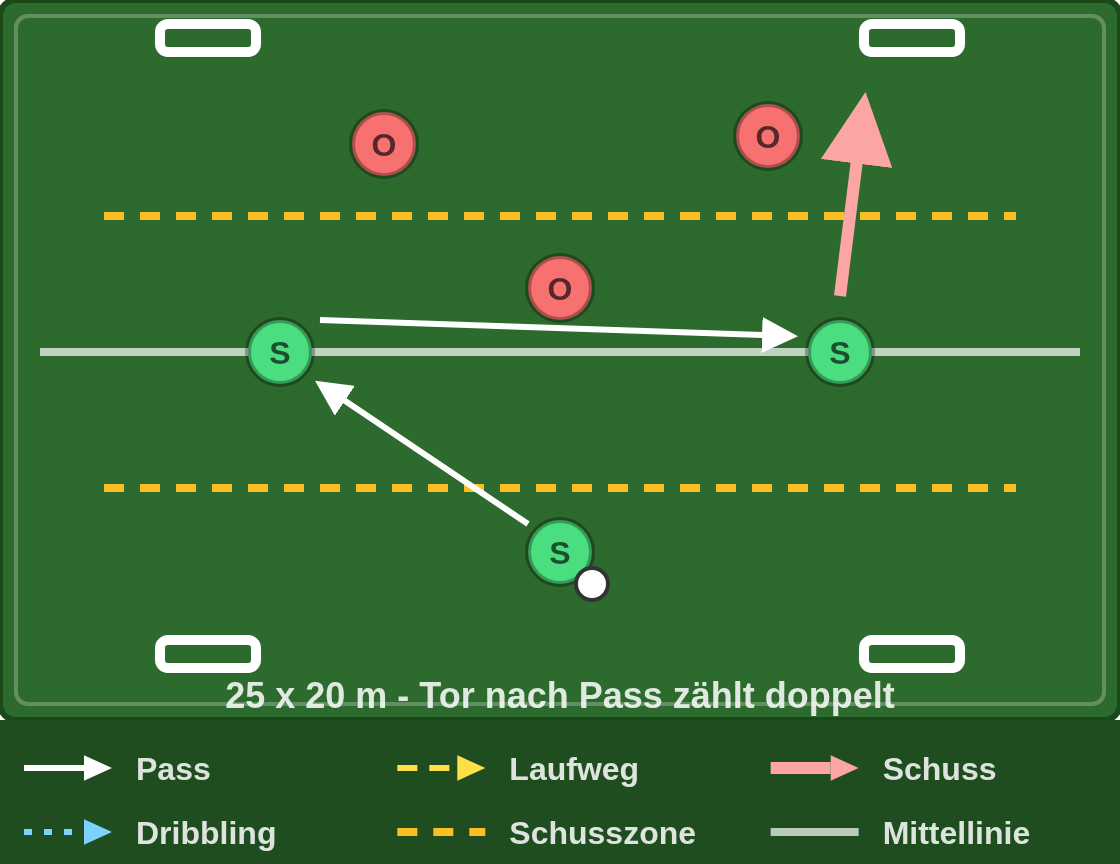
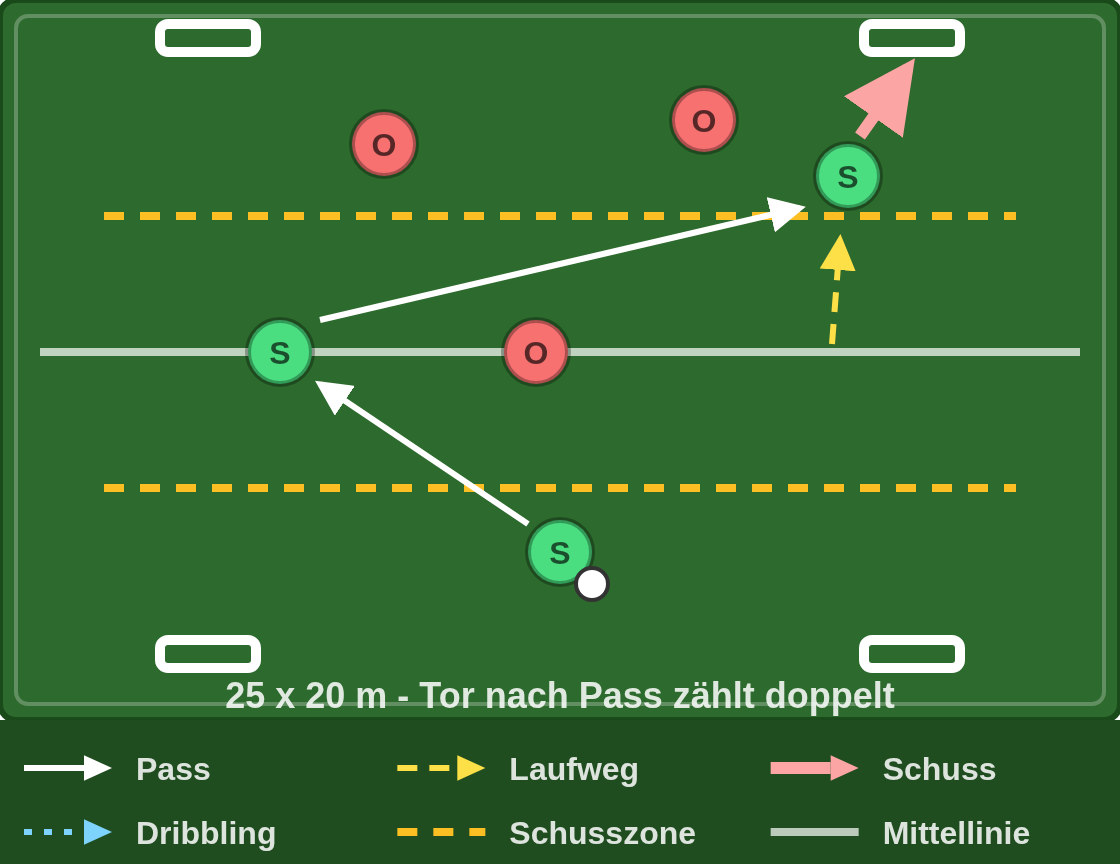
Durchsicht Charles: Abschluss in die Schusszone, Abschluss ab Minute 1
Zwei Befunde aus der Durchsicht der Exportbilder, beide am Inhalt, kein Code:

- Übung 1: der abschließende Spieler stand auf der Mittellinie und schoss von
  dort — die Regel der Einheit lautet „Tore zählen nur aus der Schusszone“, und
  die Bildunterschrift der Abgabe nennt den Abschluss aus der Zone. Der Spieler
  steht jetzt in der Zone, ein Laufweg zeigt, wie er hineingestartet ist, der
  Schuss beginnt dahinter. Der zentrale Verteidiger rückt auf die Mittellinie,
  damit die Verlagerung nicht durch seinen Kreis läuft. Engster Spielerabstand
  39 px, weiter über den geforderten 24.
- Übung 2: neun Minuten nur passen, bevor zum ersten Mal abgeschlossen wird, ist
  für diese Altersklasse zu lang. §10 des Ausbildungskonzepts fragt nach jeder
  Einheit, ob jedes Kind ein Erfolgserlebnis hatte. Abgeschlossen wird jetzt ab
  der ersten Minute; gesteigert wird über das Material (zweiter Ball ab Minute 4)
  und den Wettbewerb (ab Minute 8 gegen das eigene Vorher). Bildunterschrift,
  Kurztext und das Label des Zwischenblocks in der Vorlage ziehen mit.

Beide Skizzen neu exportiert, Abnahmetabelle und „Was offen bleibt“ im Paket
nachgeführt — samt der Punkte, die in Huetten_Aufgabe_2.2.docx von Hand
nachzuziehen sind. Voller Prüflauf grün.

Claude-Session: https://claude.ai/code/session_01MHgn9TPz4fJRqUSv74pZiR

Changed region(s): [[0.2812, 0.0625, 0.8125, 0.4688]]

diff --git a/doku/auftrag-einheit-lf4/Auftragspaket_Einheit_LF4.md b/doku/auftrag-einheit-lf4/Auftragspaket_Einheit_LF4.md
@@ -48,34 +48,133 @@ Paket Lehrgangsskizzen.
   "diff": 2,
   "skizze": {
     "li": [
-      [10, 88, 270, 88],
-      [26, 54, 254, 54, "sz"],
-      [26, 122, 254, 122, "sz"]
+      [
+        10,
+        88,
+        270,
+        88
+      ],
+      [
+        26,
+        54,
+        254,
+        54,
+        "sz"
+      ],
+      [
+        26,
+        122,
+        254,
+        122,
+        "sz"
+      ]
     ],
     "tor": [
-      [40, 6, "h", 24],
-      [216, 6, "h", 24],
-      [40, 160, "h", 24],
-      [216, 160, "h", 24]
+      [
+        40,
+        6,
+        "h",
+        24
+      ],
+      [
+        216,
+        6,
+        "h",
+        24
+      ],
+      [
+        40,
+        160,
+        "h",
+        24
+      ],
+      [
+        216,
+        160,
+        "h",
+        24
+      ]
     ],
     "p": [
-      [132, 131, 80, 96, "p"],
-      [80, 80, 198, 84, "p"],
-      [210, 74, 216, 26, "s"]
+      [
+        132,
+        131,
+        80,
+        96,
+        "p"
+      ],
+      [
+        80,
+        80,
+        200,
+        52,
+        "p"
+      ],
+      [
+        208,
+        86,
+        210,
+        60,
+        "l"
+      ],
+      [
+        215,
+        34,
+        227,
+        17,
+        "s"
+      ]
     ],
     "s": [
-      [140, 138, "g", "S"],
-      [70, 88, "g", "S"],
-      [210, 88, "g", "S"],
-      [140, 72, "r", "O"],
-      [96, 36, "r", "O"],
-      [192, 34, "r", "O"]
+      [
+        140,
+        138,
+        "g",
+        "S"
+      ],
+      [
+        70,
+        88,
+        "g",
+        "S"
+      ],
+      [
+        212,
+        44,
+        "g",
+        "S"
+      ],
+      [
+        134,
+        88,
+        "r",
+        "O"
+      ],
+      [
+        96,
+        36,
+        "r",
+        "O"
+      ],
+      [
+        176,
+        30,
+        "r",
+        "O"
+      ]
     ],
     "b": [
-      [148, 146]
+      [
+        148,
+        146
+      ]
     ],
     "tx": [
-      [140, 177, "25 x 20 m - Tor nach Pass zählt doppelt"]
+      [
+        140,
+        177,
+        "25 x 20 m - Tor nach Pass zählt doppelt"
+      ]
     ]
   }
 }
@@ -87,47 +186,127 @@ Paket Lehrgangsskizzen.
 {
   "name": "Dreieckspassen mit Abschluss",
   "kat": "raute",
-  "kurz": "Übungsform ohne Gegner: Innenseitenpass im Dreieck, zweiter Ball, zum Schluss Abschluss aus der Schusszone.",
+  "kurz": "Übungsform ohne Gegner: Innenseitenpass im Dreieck, Abschluss von Beginn an, ab Minute 4 mit zweitem Ball.",
   "spieler": "3 je Dreieck (12 = 4 Dreiecke auf zwei Feldern)",
   "feld": "Auf dem Spielfeld, Dreieck mit ca. 8 m Seitenlänge, Positionen mit Hütchen",
   "dauer": "13",
-  "ablauf": "Zwischenblock der Einheit und der einzige Teil ohne Gegner – hier wird korrigiert statt gefragt. Start und Stopp sind erlaubt, die Ausgangssituation kehrt wieder.\n\nMinute 0 bis 5: ein Ball je Dreieck. Innenseitenpass, Ballmitnahme in die offene Seite, nach dem Pass der eigenen Abspielrichtung nachrücken.\n\nMinute 5 bis 9: ein zweiter Ball kommt dazu. Jetzt muss vor jedem Pass hingeschaut werden, weil die Zielposition besetzt sein kann.\n\nMinute 9 bis 13: der dritte Pass geht auf das Kind, das aus dem Dreieck herausdribbelt und in der Schusszone auf ein Minitor abschließt. Danach rückt es auf die freie Position nach.",
+  "ablauf": "Zwischenblock der Einheit und der einzige Teil ohne Gegner – hier wird korrigiert statt gefragt. Start und Stopp sind erlaubt, die Ausgangssituation kehrt wieder. Abgeschlossen wird von der ersten Minute an: neun Minuten nur passen wäre für diese Altersklasse zu lang, und die Kontrollfrage des Konzepts lautet, ob jedes Kind ein Erfolgserlebnis hatte.\n\nMinute 0 bis 4: ein Ball je Dreieck. Innenseitenpass, Ballmitnahme in die offene Seite, nach dem Pass der eigenen Abspielrichtung nachrücken. Nach dem dritten Pass dribbelt das Kind aus dem Dreieck heraus und schließt aus der Schusszone auf ein Minitor ab, danach rückt es auf die freie Position nach.\n\nMinute 4 bis 8: ein zweiter Ball kommt dazu. Jetzt muss vor jedem Pass hingeschaut werden, weil die Zielposition besetzt sein kann. Der Abschluss bleibt.\n\nMinute 8 bis 13: zwei Durchgänge von zwei Minuten gegen das eigene Vorher – wie viele saubere Abschlüsse schafft das Dreieck? Gezählt wird je Dreieck, nie gegen ein anderes.",
   "varianten": "Leichter: Dreieck auf 6 m verkleinern, nur ein Ball, Kontakte frei. Schwerer: Dreieck auf 10 m, Pass in den Lauf, eine Minute je Durchgang mit dem schwächeren Fuß.",
   "coaching": "Standbein neben den Ball, Innenseite.\nKurz hinschauen, bevor du spielst.\nBall dorthin mitnehmen, wo du weiterspielen willst.",
   "spass": 3,
   "diff": 2,
   "skizze": {
     "z": [
-      [30, 20, 220, 140]
+      [
+        30,
+        20,
+        220,
+        140
+      ]
     ],
     "h": [
-      [70, 102, "r"],
-      [140, 38, "r"],
-      [140, 142, "r"]
+      [
+        70,
+        102,
+        "r"
+      ],
+      [
+        140,
+        38,
+        "r"
+      ],
+      [
+        140,
+        142,
+        "r"
+      ]
     ],
     "s": [
-      [70, 90, "g", "A"],
-      [140, 50, "g", "B"],
-      [140, 130, "g", "C"]
+      [
+        70,
+        90,
+        "g",
+        "A"
+      ],
+      [
+        140,
+        50,
+        "g",
+        "B"
+      ],
+      [
+        140,
+        130,
+        "g",
+        "C"
+      ]
     ],
     "b": [
-      [78, 98]
+      [
+        78,
+        98
+      ]
     ],
     "p": [
-      [78, 84, 132, 56, "p"],
-      [140, 60, 140, 120, "p"],
-      [132, 124, 78, 98, "p"],
-      [150, 132, 202, 112, "d"],
-      [212, 106, 244, 92, "s"]
+      [
+        78,
+        84,
+        132,
+        56,
+        "p"
+      ],
+      [
+        140,
+        60,
+        140,
+        120,
+        "p"
+      ],
+      [
+        132,
+        124,
+        78,
+        98,
+        "p"
+      ],
+      [
+        150,
+        132,
+        202,
+        112,
+        "d"
+      ],
+      [
+        212,
+        106,
+        244,
+        92,
+        "s"
+      ]
     ],
     "li": [
-      [206, 20, 206, 160, "sz"]
+      [
+        206,
+        20,
+        206,
+        160,
+        "sz"
+      ]
     ],
     "tor": [
-      [251, 78, "v", 28]
+      [
+        251,
+        78,
+        "v",
+        28
+      ]
     ],
     "tx": [
-      [140, 174, "Dreieck ca. 8 m - ab Minute 5 mit zweitem Ball"]
+      [
+        140,
+        174,
+        "Dreieck ca. 8 m - ab Minute 4 mit zweitem Ball"
+      ]
     ]
   }
 }
@@ -180,7 +359,7 @@ Stellen „Aufbau" (Übung 1) und „Zwischenblock" (Übung 2).
 | `stand` hochgesetzt | `2026-09-14-2` in `bibliothek.json`, sonst holt `_bibHolen` die Datei nicht | Prüffall a): Stand wörtlich `2026-09-14-2`, beide Übungen als letzte zwei Einträge, keine doppelten Namen. `vorlagen.json` auf `2026-09-14-4` |
 | Nur vorhandene Elementtypen | Schlüssel jeder Spec gegen `EI_SKZ_LISTEN` (`z, tor, leiter, wand, p, li, h, s, b, tx`), Spielerfarben gegen `g, r, b, y, w`, Pfeiltypen gegen `SKZ_PFEIL` | Prüffall c): Schlüssel, Spieler- und Hütchenfarben, Pfeiltypen – alle drei Listen werden zur Laufzeit aus der App gelesen, nichts abgetippt. Keine Abweichung |
 | Skizzen rendern im Detail und im Export identisch | `viewBox` `0 0 280 180`, Export serialisiert dieselbe `_skz`-Ausgabe | Prüffall c)/f): `viewBox` stimmt; die eingecheckte SVG enthält die `_skz`-Ausgabe zeichengleich, sonst wird „Export neu laufen lassen“ gemeldet |
-| Lesbar am Handy | kein Spielerkreis näher als 24 px an einem anderen; falls eine Spec das reißt, Position melden statt den Renderer zu ändern | Gemessen: Übung 1 engster Abstand **57 px**, Übung 2 **80 px**. PNG 1120 × 864 px, im Vollbild am Handy ohne Zoomen lesbar (Sichtprüfung beider Bilder). Dieselbe Einschränkung wie im Paket Lehrgangsskizzen: Kürzel 8 px, Beschriftung 9 px im festen Maßstab von `_skz` |
+| Lesbar am Handy | kein Spielerkreis näher als 24 px an einem anderen; falls eine Spec das reißt, Position melden statt den Renderer zu ändern | Gemessen: Übung 1 engster Abstand **39 px**, Übung 2 **80 px**. PNG 1120 × 864 px, im Vollbild am Handy ohne Zoomen lesbar (Sichtprüfung beider Bilder). Dieselbe Einschränkung wie im Paket Lehrgangsskizzen: Kürzel 8 px, Beschriftung 9 px im festen Maßstab von `_skz` |
 | Vorlage übernehmbar | Vorlage erscheint im Trainingsplan und legt die fünf Blöcke mit den richtigen Übungen an, ohne dass eine Übung doppelt entsteht | Prüffall d)/e): `_evPruefung` ohne Fehler, kein Netto-Hinweis (39 von 49 Minuten brutto = 0,80, im Band 0,6–1,0). Übernahme auf den 18.09. schreibt fünf Phasen; Block 2 und 5 zeigen auf `Warm up Adler` und `3 gegen 3 auf vier Minitore mit Schusszone` aus dem Bestand, Block 3 und 4 auf die neuen. Die Übungstabelle bleibt bei 14 Zeilen, keine gleichnamige Kopie |
 | `node tests/run.js` grün, `sw.js` hochgezählt | voller Lauf vor dem Bump | Voller Lauf grün auf v553, danach Bump auf **v554**, Übersicht mitgezogen |
 | Keine neuen Programmdateien | `bibliothek.json` und `vorlagen.json` bleiben in der Ausnahmeliste im `fetch`-Handler von `sw.js`, nicht im Precache | Kein neues App-Modul, `PRECACHE` unverändert (54 Einträge), die Regel `/\/uebungen\/[^/]+\.json$/` im `fetch`-Handler greift für beide Dateien. Neu sind nur der Prüffall und das Exportskript in `doku/`, das den Baustein aus `doku/auftrag-lehrgangsskizzen/export-skizzen.js` aufruft statt ihn zu kopieren |
@@ -197,6 +376,37 @@ Alle vier in `tests/checks/v554-einheit-lf4.js`; der Export läuft mit
 `node doku/auftrag-einheit-lf4/export-skizzen.js` aus dem Projektordner.
 
 ## Was offen bleibt
+
+### Nachträglich geändert — Durchsicht Charles, 15.09.2026
+
+Zwei Befunde aus seiner Durchsicht der Exportbilder. Beide ändern den Wortlaut des
+Pakets; deshalb stehen sie hier und nicht still im Code.
+
+- **Übung 1, Abschluss stand außerhalb der Schusszone.** Der abschließende Spieler stand
+  auf der Mittellinie (`y 88`) und schoss von dort aufs Tor — die Regel der Einheit lautet
+  aber „Tore zählen nur aus der Schusszone“, und die Bildunterschrift der Abgabe nennt
+  ausdrücklich den „Abschluss aus der Schusszone“. Korrigiert: der Spieler steht jetzt bei
+  `y 44`, also zwischen Grundlinie und Zonenlinie (`y 54`), ein Laufweg zeigt, wie er
+  hineingestartet ist, und der Schuss beginnt bei `y 34`. Der zentrale Verteidiger ist auf
+  die Mittellinie gerückt (`134, 88`), damit die Verlagerung nicht durch seinen Kreis läuft.
+  Übung 2 war schon richtig: dort endet das Dribbling bei `x 202` vor der Zonenlinie
+  `x 206`, und der Schuss beginnt bei `x 212` dahinter.
+- **Übung 2, neun Minuten ohne Abschluss.** Der Aufbau ließ den Torschuss erst ab Minute 9
+  zu — davor wurde nur gepasst. Für diese Altersklasse zu lang, und §10 des
+  Ausbildungskonzepts fragt nach jeder Einheit, ob **jedes Kind ein Erfolgserlebnis** hatte.
+  Neu: abgeschlossen wird ab der ersten Minute, gesteigert wird über das Material (zweiter
+  Ball ab Minute 4) und den Wettbewerb (ab Minute 8 zwei Durchgänge gegen das eigene
+  Vorher). Die drei Steuerungsgrößen der Abgabe bleiben damit erhalten, nur ihre
+  Reihenfolge ändert sich. `kurz` und die Bildunterschrift der Skizze ziehen mit, ebenso
+  das Label des Zwischenblocks in der Vorlage.
+
+**Von Hand nachzuziehen in `Huetten_Aufgabe_2.2.docx`:** die Minutenangaben des
+Zwischenblocks (0–4 / 4–8 / 8–13 statt 0–5 / 5–9 / 9–13), die Bildunterschrift zu Skizze 2
+(„Ab Minute 9 dribbelt das Kind …“), und beide Exportbilder neu einsetzen. Zusätzlich ein
+Widerspruch, der nicht aus diesem Paket stammt: die Materialliste der Abgabe nennt
+„12 Bälle Größe 3“, der Bestand der Mannschaft führt seit v552 ausschließlich Größe 4.
+Eines von beidem stimmt nicht.
+
 
 Schema-Befunde – nichts hinzuerfunden, alles über vorhandene Felder:
 
